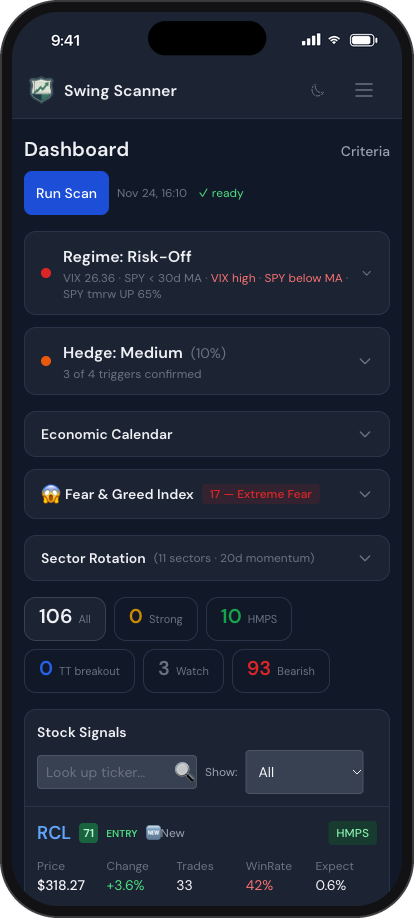
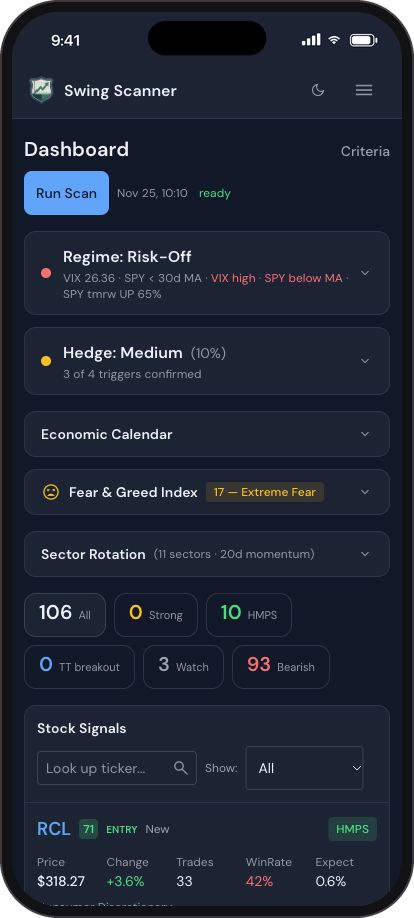
Lab project update

diff --git a/swingscanner.html b/swingscanner.html
@@ -329,7 +329,7 @@
             <p class="caption">Account figures and positions in these screenshots are sample data.</p>
 
             <h3>Always On, Including on a Phone</h3>
-            <p>Markets move during the day, so the whole app works on a phone, in light and dark mode, with live prices. A shared component library kept the screens consistent as features kept being added.</p>
+            <p>Markets move during the day, so the whole app works on a phone, in light and dark mode, with live prices. A shared design system keeps the screens consistent as features keep being added.</p>
             <div class="img-pair">
                 <img class="phone" src="images/swingscanner/mobile-dashboard.png" alt="Swing Scanner dashboard on a phone in dark mode">
                 <img class="phone" src="images/swingscanner/mobile-holdings.png" alt="Swing Scanner holdings on a phone in light mode">
@@ -346,6 +346,8 @@
             <p>I haven't written production code in years. For this project, Claude Code, an AI coding agent, wrote the code, and I worked the way I would with an engineering team: I set the product direction, designed the experience, reviewed every change, and decided what shipped.</p>
             <p>The speed was remarkable. Features that would have been a quarter-long roadmap item for a team took an afternoon.</p>
             <p>But speed moved the bottleneck. Writing code stopped being the hard part. Knowing whether the code, and the claims about it, were actually right became the hard part.</p>
+            <p>Visual design had the same problem in a different form. The agent makes hundreds of small styling decisions in every session and remembers none of them the next time. After months of features, the app had nearly 6,000 hard-coded color choices and three competing ways of handling dark mode.</p>
+            <p>So I treated the design system as something the agent reads and is held to, not a style guide it might remember: named color tokens that switch with the theme, one icon set, written specs for each component, and an automated check that rejects any change using a color, icon or value outside the system. Then every page was moved onto it, one at a time, with each change checked against the page it replaced.</p>
         </div>
 
         <div class="case-section">
